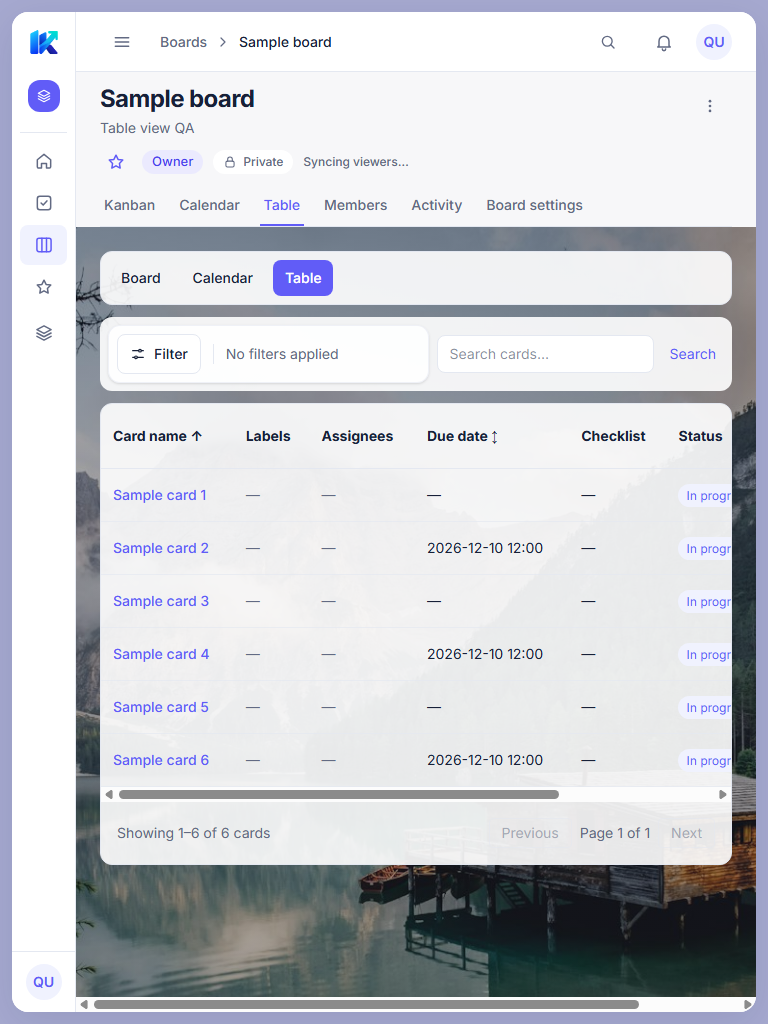
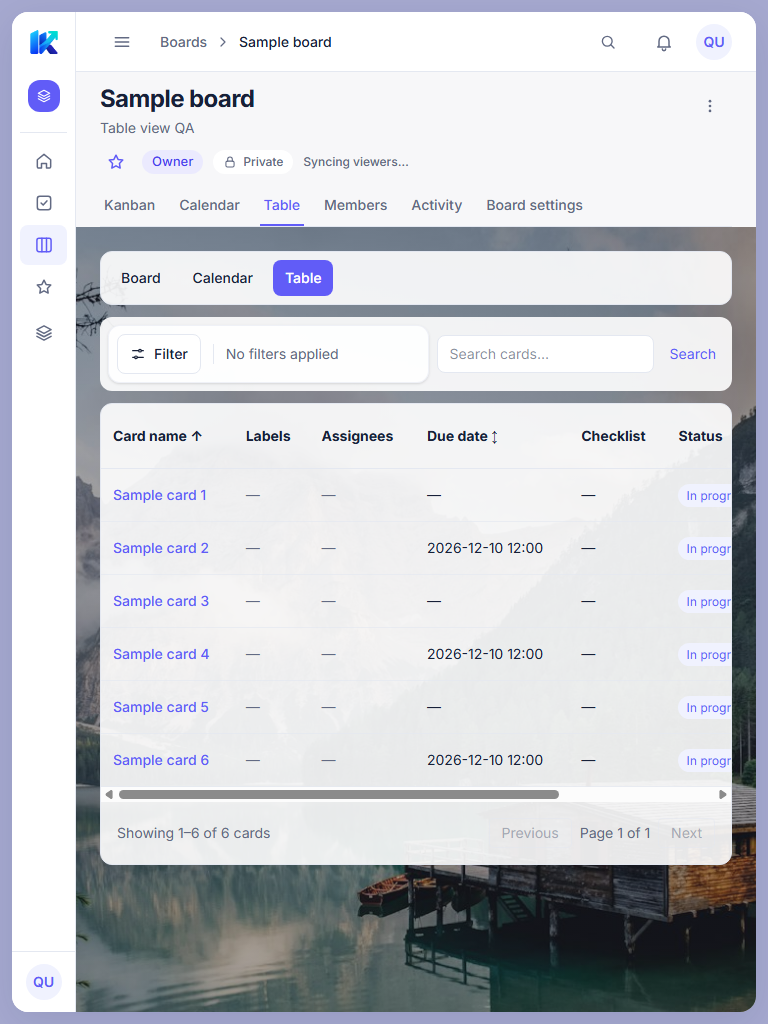
fix(boards): contain table scrolling on narrow screens

diff --git a/apps/frontend/src/features/boards/components/TableBoard.tsx b/apps/frontend/src/features/boards/components/TableBoard.tsx
@@ -275,9 +275,7 @@ export function TableBoard({
                       <th scope="col" className="p-3">
                         Status
                       </th>
-                      <th scope="col" className="p-3">
-                        <span className="sr-only">Actions</span>
-                      </th>
+                      <th scope="col" aria-label="Actions" className="p-3" />
                     </tr>
                   </thead>
                   <tbody>

diff --git a/docs/tasks/frontend/p5-table-view.md b/docs/tasks/frontend/p5-table-view.md
@@ -30,6 +30,17 @@ formatting reported pre-existing violations across many files; changed files
 passed a targeted check. Chrome captures at 1585×992, 768×1024 and 375×812
 in dark and light themes are in the [implementation evidence](../../design/screens/implementation/p5-table-view/).
 They use synthetic API and Socket.IO responses, including the bundled lake
-background, and show the mobile filter fix after an initial narrow-layout
-failure. They do not prove background persistence, real-user permissions,
-keyboard operation, screen-reader behavior or all metadata combinations.
+background. A later Chrome measurement found that the visually hidden Actions
+heading escaped the table's scroll container; the heading now has an accessible
+name without positioned content. At all three capture sizes, document and main
+scroll widths matched their client widths; the table alone scrolled on narrow
+screens. Enter on the focused title-sort button changed `aria-sort` to
+descending and requested descending order. This is a targeted keyboard check,
+not a complete screen-reader or accessibility audit.
+
+The focused Table suite now covers read-only archived Boards and Workspace
+viewers, labels, accessible assignee names, checklist progress, overdue versus
+column status, URL/search history, Calendar navigation, the retained photo,
+archive invalidation and access revocation. It uses mocks: it does not establish
+real-user permission changes or server-side background persistence. PostgreSQL
+integration also checks ascending and descending ties across page boundaries.
